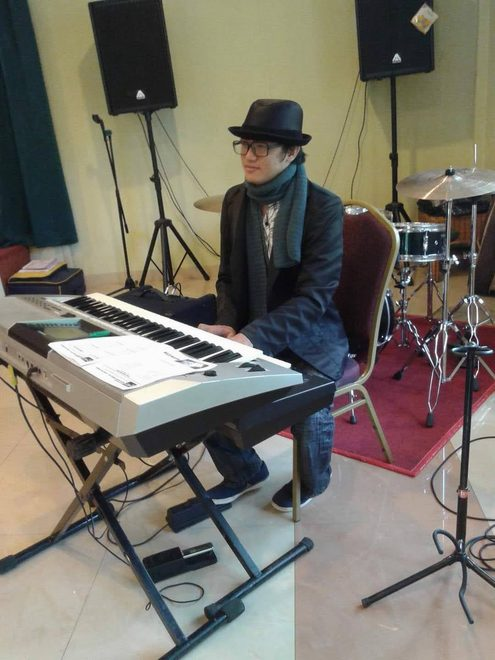
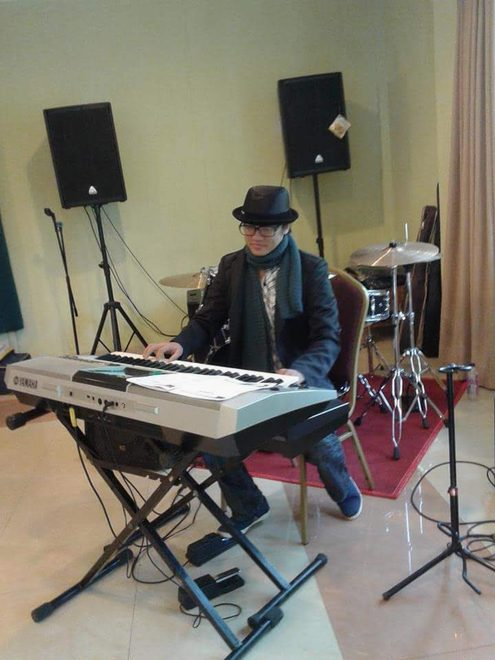
Tukar foto panggung, dan perbaiki dua temuan dari audit teknis
Foto kolase yang bertopi dan bersyal diganti bingkai lain dari sesi yang
sama: tangannya di atas tuts dan wajahnya lebih jelas. Rasionya sama
persis dengan yang lama, jadi susunan kolase tidak bergeser dan
profil.ts tidak perlu diubah.

Temuan audit yang diperbaiki:
- Target sentuh. Tautan nav tingginya 14px dan tautan WhatsApp serta toko
  28px, keduanya di bawah ambang. Sekarang keduanya min-h-11 (44px).
  Garis bawah pada TautanTeks dipindah ke pembungkus teks, karena kalau
  tetap menempel di tepi bawah tautan, menambah tinggi akan menjauhkan
  garisnya dari huruf.
- Bayangan kartu kolase memakai hitam mentah, dan di atas latar gelap itu
  praktis tidak terlihat. Dijadikan token --bayang-kartu supaya tiap mode
  punya nilainya sendiri.

Warna hex di Lensa.tsx sengaja dibiarkan hard-coded: itu warna tanda pada
logo, yang justru tidak boleh ikut berubah mengikuti mode.

Claude-Session: https://claude.ai/code/session_014kMfZrTZyXqbcEtHMhFzh3

diff --git a/src/components/Tautan.tsx b/src/components/Tautan.tsx
@@ -27,14 +27,16 @@ export function TautanTeks({
 }: ComponentPropsWithoutRef<"a">) {
   return (
     <a
-      className={`group relative inline-block text-ink transition-colors duration-200 [transition-timing-function:var(--ease-out)] hover:text-accent ${className}`}
+      className={`group inline-flex min-h-11 items-center text-ink transition-colors duration-200 [transition-timing-function:var(--ease-out)] hover:text-accent ${className}`}
       {...props}
     >
-      {children}
-      <span
-        aria-hidden
-        className="absolute -bottom-0.5 left-0 h-px w-full origin-left scale-x-0 bg-accent transition-transform duration-300 [transition-timing-function:var(--ease-out)] group-hover:scale-x-100"
-      />
+      <span className="relative inline-block">
+        {children}
+        <span
+          aria-hidden
+          className="absolute -bottom-0.5 left-0 h-px w-full origin-left scale-x-0 bg-accent transition-transform duration-300 [transition-timing-function:var(--ease-out)] group-hover:scale-x-100"
+        />
+      </span>
     </a>
   );
 }

diff --git a/src/app/globals.css b/src/app/globals.css
@@ -38,6 +38,10 @@
   --nudge-2: clamp(1.5rem, 4.5vw, 6rem);
   --nudge-3: clamp(2.25rem, 7vw, 9.5rem);
 
+  /* Kartu kolase. Hitam mentah tidak terbaca di atas latar gelap,
+     jadi tiap mode punya nilainya sendiri. */
+  --bayang-kartu: 0 18px 40px -24px rgba(0, 0, 0, 0.55);
+
   --radius: 3px;
   --shell: 82rem;
   --ease-out: cubic-bezier(0.23, 1, 0.32, 1);
@@ -57,6 +61,7 @@
     --on-accent: #12161a;
     --lens: #38434f;
     --lens-ring: rgba(237, 240, 243, 0.45);
+    --bayang-kartu: 0 20px 44px -22px rgba(0, 0, 0, 0.9);
   }
 }
 
@@ -81,6 +86,7 @@
   --font-sans: var(--font-geist-sans);
   --font-display: var(--font-archivo);
   --radius-brand: var(--radius);
+  --shadow-kartu: var(--bayang-kartu);
 }
 
 html {

diff --git a/src/components/Nav.tsx b/src/components/Nav.tsx
@@ -26,7 +26,7 @@ export function Nav() {
               <li key={t.href}>
                 <a
                   href={t.href}
-                  className="meta transition-colors duration-200 [transition-timing-function:var(--ease-out)] hover:text-accent"
+                  className="meta inline-flex min-h-11 items-center transition-colors duration-200 [transition-timing-function:var(--ease-out)] hover:text-accent"
                 >
                   {t.label}
                 </a>

diff --git a/src/components/Musik.tsx b/src/components/Musik.tsx
@@ -41,7 +41,7 @@ export function Musik() {
             }
           >
             <figure
-              className="kartu overflow-hidden rounded-brand border border-line bg-ground-sunk shadow-[0_18px_40px_-24px_rgba(0,0,0,0.55)]"
+              className="kartu overflow-hidden rounded-brand border border-line bg-ground-sunk shadow-kartu"
               style={
                 {
                   "--putar": f.putar,
